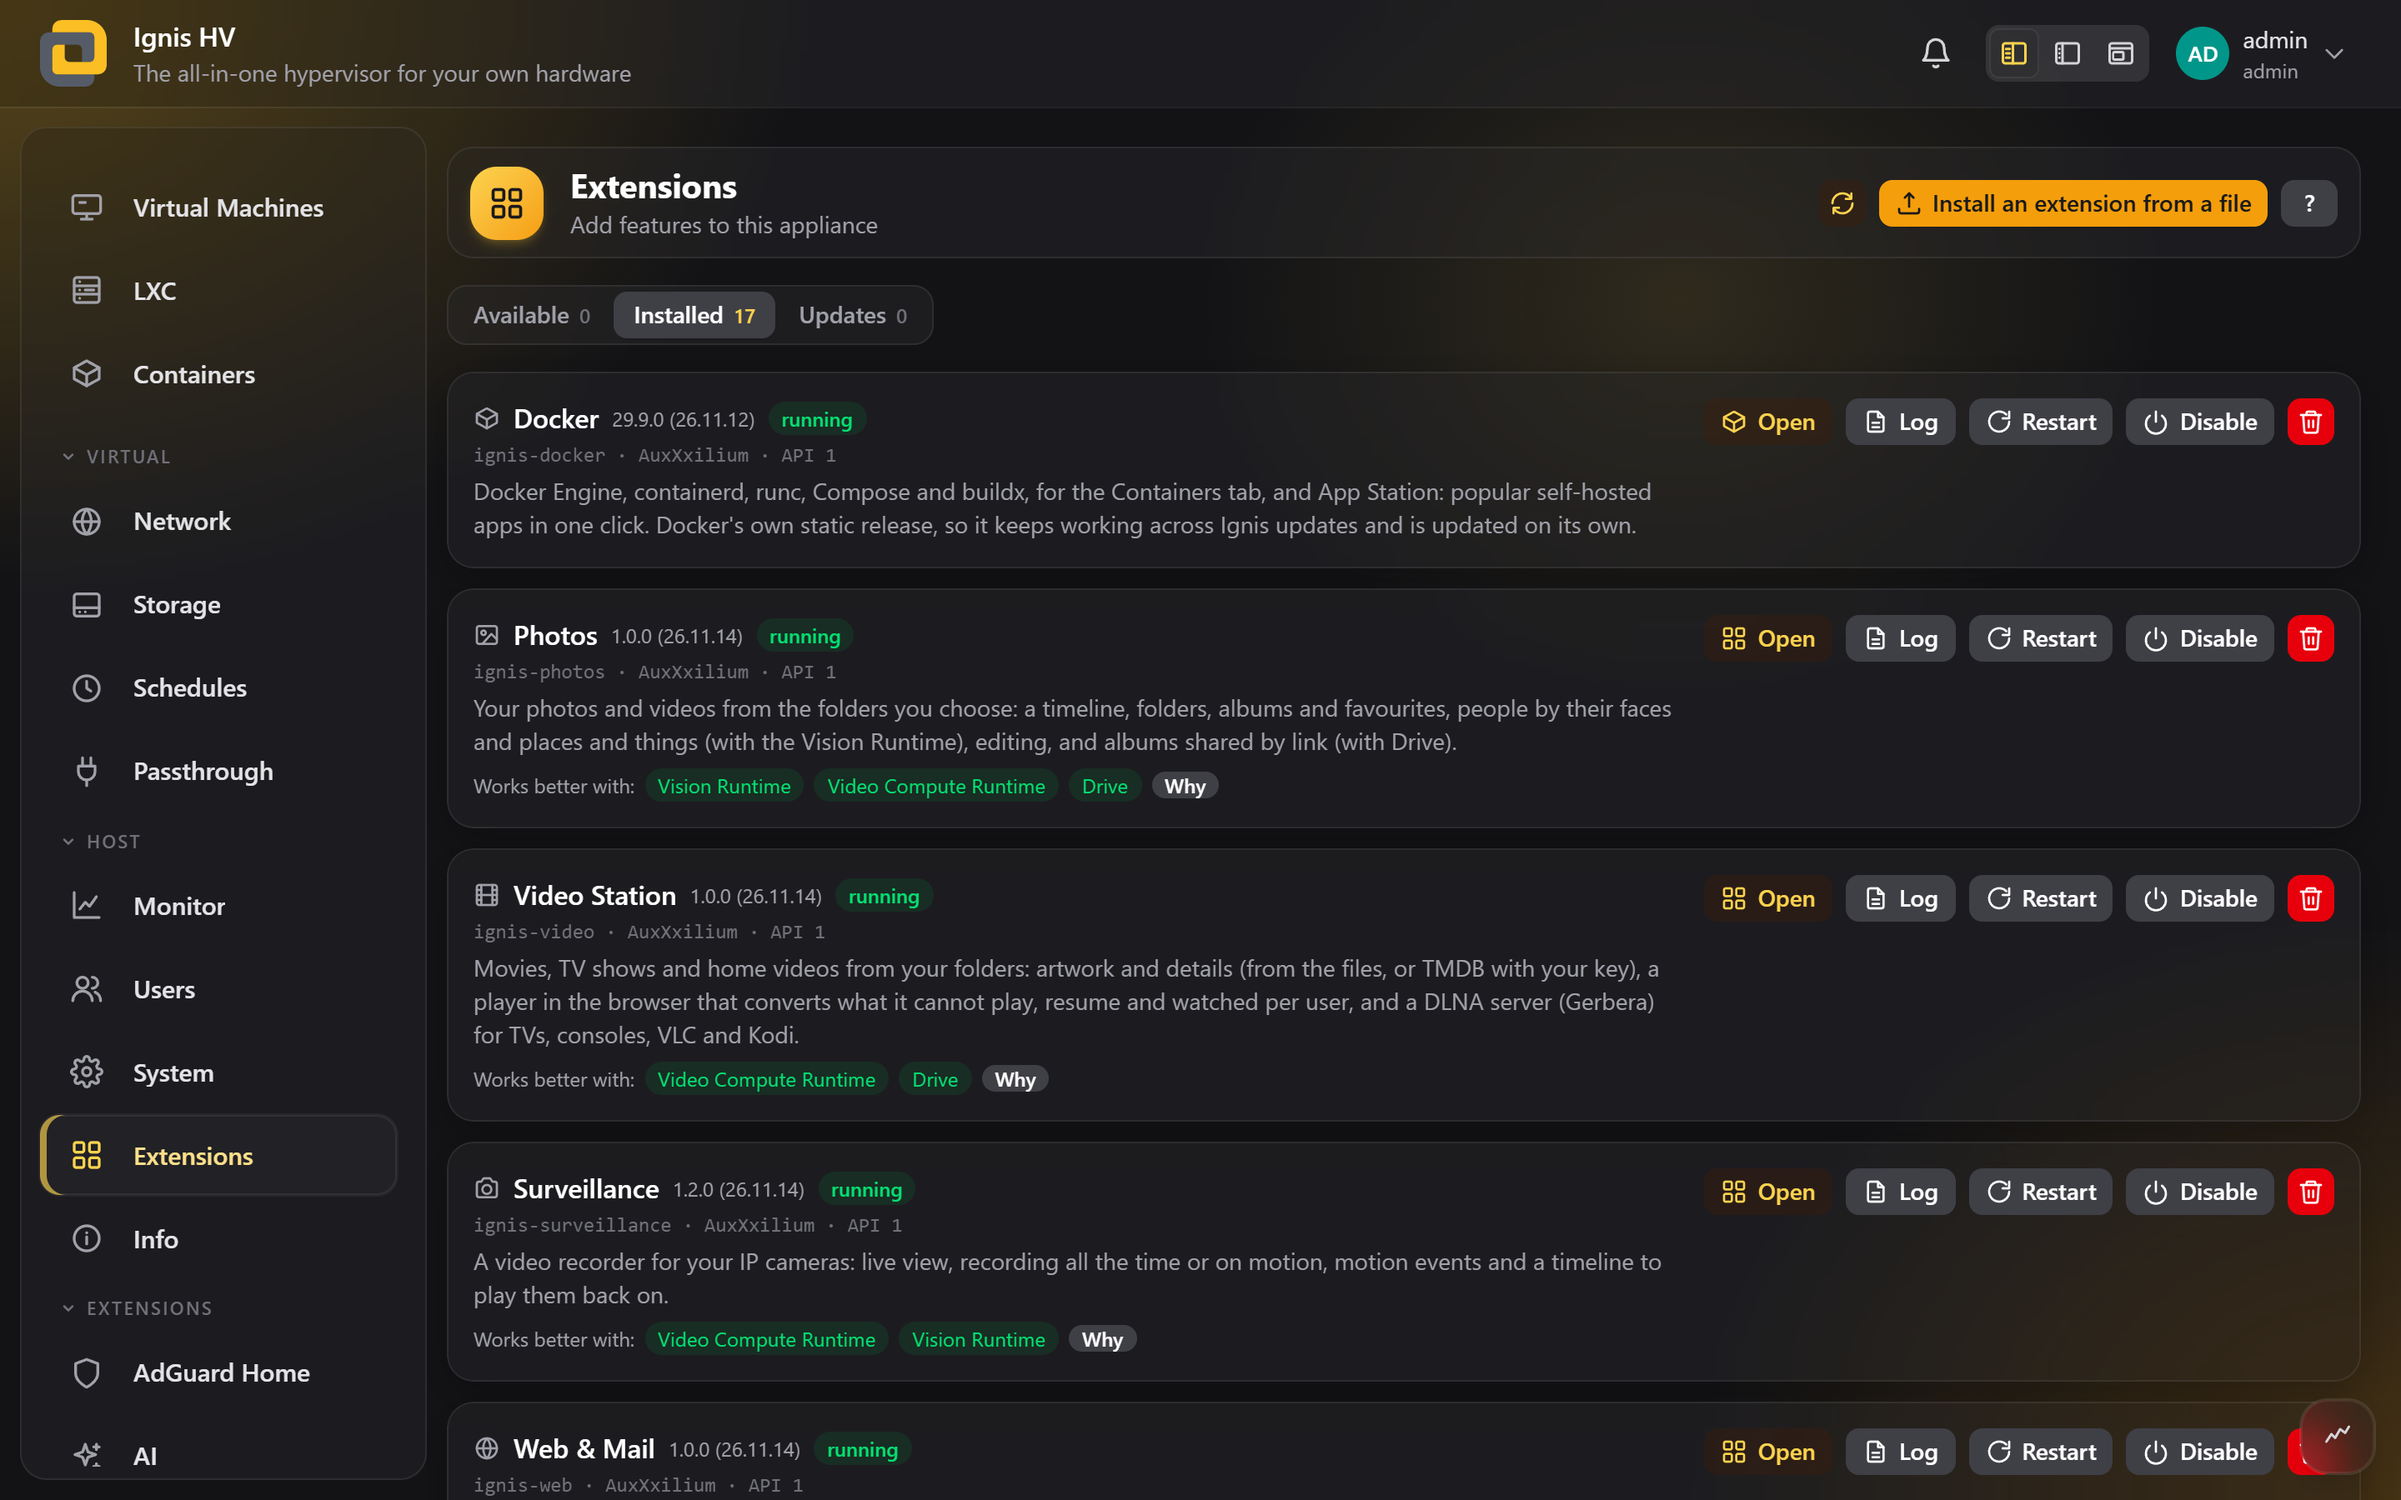
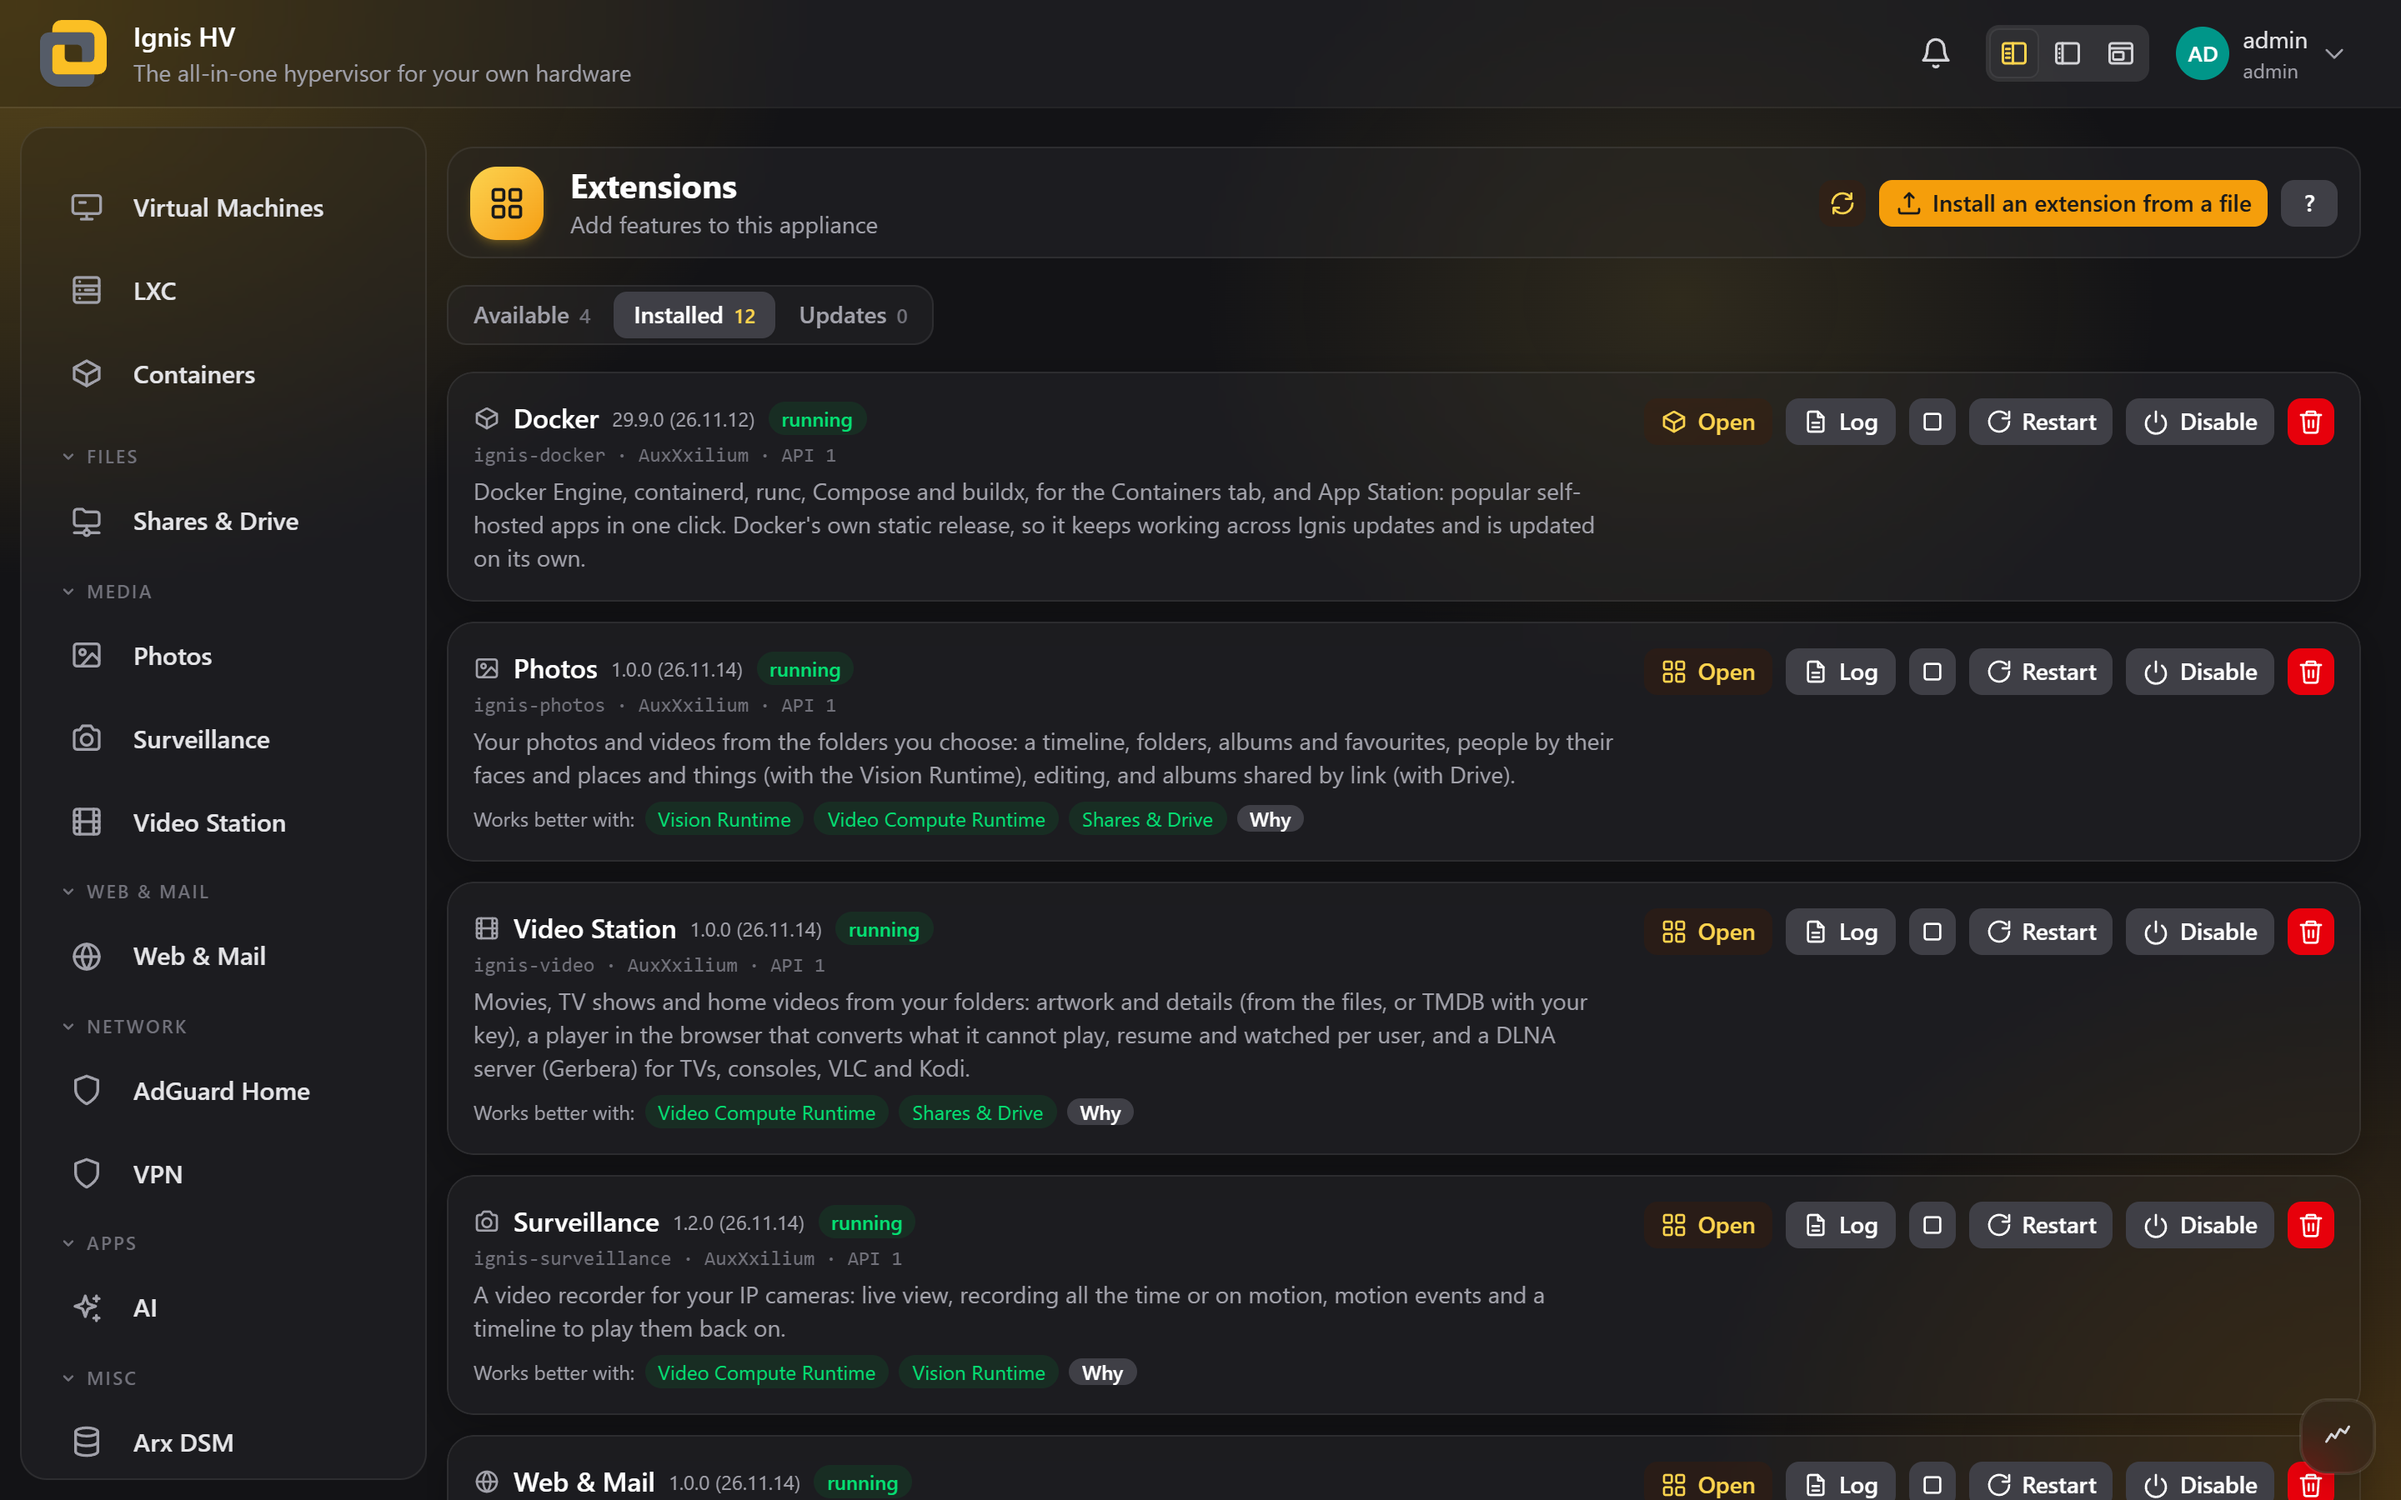
readme: Network & Firewall with router and DHCP, apps grouped in the sidebar, Shares & Drive and Backup & Sync; new screenshots

diff --git a/README.md b/README.md
@@ -59,6 +59,7 @@ Ignis turns a PC or server into a small, dedicated host for virtual machines, co
 ### 🌐 Network
 
 * **Networks for your machines**: private networks, or bridges that put machines straight on your network. VLANs and bonded network cards are supported, also per machine
+* **Network & Firewall**: Ignis's own addresses, a firewall that decides who reaches which service, blocklists, countries and port scans, port forwards, and a **router**: one network card to the internet, the others as local networks. Each local network can reach the internet or stay local only, may or may not reach the other local networks, and gets its own DHCP range if you switch it on. A device list shows who is connected, with names of your own and fixed addresses
 * **HTTPS**: with your own certificate or a free one from Let's Encrypt
 
 ### 🔐 Sign-in and security
@@ -69,15 +70,16 @@ Ignis turns a PC or server into a small, dedicated host for virtual machines, co
 
 ### 🧩 Apps
 
-Add apps from the **Extensions** tab. Install only the ones you need; each one is updated on its own, apart from Ignis. When an app requires another one, the tab tells you and installs it with a click, and apps you have switched on start by themselves when Ignis starts.
+Add apps from the **Extensions** tab. Install only the ones you need; each one is updated on its own, apart from Ignis. In the sidebar your apps sit right under the machines, grouped into **Files**, **Media**, **Web & Mail**, **Network**, **Apps** and **Misc**, and each group can be folded away. When an app requires another one, the tab tells you and installs it with a click, and apps you have switched on start by themselves when Ignis starts.
 
-Apps that belong together come as one package: **Web & Mail**, the **Graphics Runtime**, and **Docker** with App Station. One switch turns the whole package on or off, updates and removes it, and its page has a tab for each part. If you had one of the parts installed on its own before, it moves into its package with everything it holds.
+Apps that belong together come as one package: **Web & Mail**, **Shares & Drive**, **Backup & Sync**, the **Graphics Runtime**, and **Docker** with App Station. One switch turns the whole package on or off, updates and removes it, and its page has a tab for each part. If you had one of the parts installed on its own before, it moves into its package with everything it holds.
 
 | App | What it does |
 | :-- | :-- |
 | **Docker** | Runs containers on the Containers page. With **App Station**: popular self-hosted apps such as Jellyfin, Immich, Nextcloud and Home Assistant in one click |
-| **Network Shares** | Shares folders over SMB like a NAS, and over SFTP and FTPS if you want |
-| **Drive** | Your shared folders in the browser: upload, preview, and share files with a link, also with people who have no account. Requires Network Shares |
+| **Shares & Drive** | **Network Shares** shares folders over SMB like a NAS, and over SFTP and FTPS if you want. **Drive** shows them in the browser: upload, preview, and share files with a link, also with people who have no account |
+| **Backup & Sync** | **Backup** makes encrypted, versioned backups of your folders, your computers and your VMware and Hyper-V machines, to a disk, another Ignis or the cloud, on a schedule. **Cloud Sync** keeps folders in step with Google Drive, OneDrive, Dropbox, S3 and many more |
+| **Ignis Sync** | Keeps folders the same on your phones and computers, peer to peer and end-to-end encrypted, with the Syncthing apps |
 | **Photos** | Your photos as a timeline and in albums, sorted by people, places and things. Edit and share them |
 | **Video Station** | Your movies and TV shows with posters, played in the browser. Also plays on TVs, consoles and Kodi |
 | **Audio Station** | Your music by album, artist, genre and folder, with playlists, favourites, lyrics and internet radio. Plays in the browser, in music apps that speak Subsonic, and on receivers, speakers and TVs |
@@ -94,8 +96,6 @@ Apps that belong together come as one package: **Web & Mail**, the **Graphics Ru
 | **Graphics Runtime** | The screen that Web Browser, Windows Apps and Android Apps run on (Display Runtime), using your graphics card when one is free, and video conversion on your GPU for the media apps with 3D graphics for Linux machines without passing a card through (Video Compute Runtime). Installed by itself with the apps that need it |
 | **DSM machines** | Sets up Synology DSM machines with the Arx loader and keeps the loader up to date |
 | **AdGuard Home** | Blocks ads and trackers for your whole network as its DNS server, on the network cards you choose |
-| **DHCP Server** | Hands out addresses on the networks you choose |
-| **Firewall** | Decides who can reach which service on Ignis, and can filter traffic between two network ports |
 | **NVIDIA** | The NVIDIA driver, so containers can use the GPU |
 | **Vision Runtime** | The image recognition that Photos and Surveillance use |
 
@@ -134,7 +134,8 @@ Ignis keeps two things apart: **the system**, which each update replaces as a wh
 | **Passthrough** | Graphics cards, PCI and USB devices your machines can use |
 | **Monitor** | The host right now, its **History** over time, and **Storage Health** |
 | **Users** | Accounts, roles and their permissions, and who sees which machines and pages |
-| **System** | The host's name, network, time, CPU (governor, turbo and clock limits) and fans, linked hosts, the smart home interface, email, services, updates, a terminal, and **shortlinks**: addresses of your own such as `http://<ip>/download` that open a page straight away |
+| **Network & Firewall** | Ignis's own network cards and addresses, the router with its local networks, DHCP and connected devices, and the firewall: access, zones, protection, outgoing traffic, port forwards and what was blocked |
+| **System** | The host's name, time, CPU (governor, turbo and clock limits) and fans, linked hosts, the smart home interface, email, services, updates, a terminal, and **shortlinks**: addresses of your own such as `http://<ip>/download` that open a page straight away |
 | **Extensions** | Install, update, turn on, restart and remove apps, see which apps need each other and what each package includes |
 | **Info** | What this host supports, and a report to copy into a bug report |
 
@@ -155,7 +156,7 @@ Pick the look you like from the account menu: a light or dark mode, an accent co
   </tr>
   <tr>
     <td width="50%"><img alt="Extensions: apps to download and the ones installed" src="assets/screenshots/extensions.png"><br><sub><b>Extensions</b>: install the apps you want, each updated on its own</sub></td>
-    <td width="50%"><img alt="Virtual Machines in the dark mode" src="assets/screenshots/machines.png"><br><sub><b>Virtual Machines</b>: everything about a machine at a glance</sub></td>
+    <td width="50%"><img alt="Network &amp; Firewall on its Access tab: the ports always open and the ones opened for apps" src="assets/screenshots/network-firewall.png"><br><sub><b>Network &amp; Firewall</b>: addresses, router, DHCP and the firewall in one place; your apps grouped in the sidebar</sub></td>
   </tr>
   <tr>
     <td colspan="2"><img alt="The desktop layout: Virtual Machines, Monitor and Containers in windows of their own" src="assets/screenshots/desktop.png"><br><sub><b>Desktop</b>: every page in a window of its own, with a taskbar and your wallpaper</sub></td>

diff --git a/extensions/README.md b/extensions/README.md
@@ -112,6 +112,7 @@ my-extension/
 - **`requires`** and **`recommends`** (optional): other extensions yours needs, or works better with, each with a short reason, e.g. `"requires": [{"id": "ignis-docker", "why": "runs each server as a container"}]`. The Extensions tab shows them, offers to install them, and will not turn yours on while something it requires is missing. At start-up, yours starts after the ones it requires or recommends
 - **`start_priority`** and **`start_before`** (optional): when yours starts among the others. A lower `start_priority` starts earlier; it is 50 when not set. Ignis's firewall is 10, drivers 20, network services such as DHCP 30, and what other apps build on 40. `start_before` lists extensions yours starts ahead of even though it recommends them, e.g. the NVIDIA driver has `"start_before": ["ignis-docker"]` so Docker finds the graphics card ready
 - **`schedules`** (optional): tasks yours offers on the Schedules tab, each with an `id`, a `label` and its settings; Ignis runs them with the `schedule` script in your extension's folder (`schedule run <task> <settings.json>`)
+- **`category`** (optional): the sidebar group your page is listed in: `files`, `media`, `web`, `network`, `apps` or `misc`. The groups sit right under the machines and each can be folded away; without a category, or with another word, your page is in `misc`
 - **`icon`** and **`perm`** (optional): the sidebar entry for the extension's
   page, below, and the extension's row on the Extensions tab. `perm` is the
   permission an account needs to see the entry and to call the extension's
